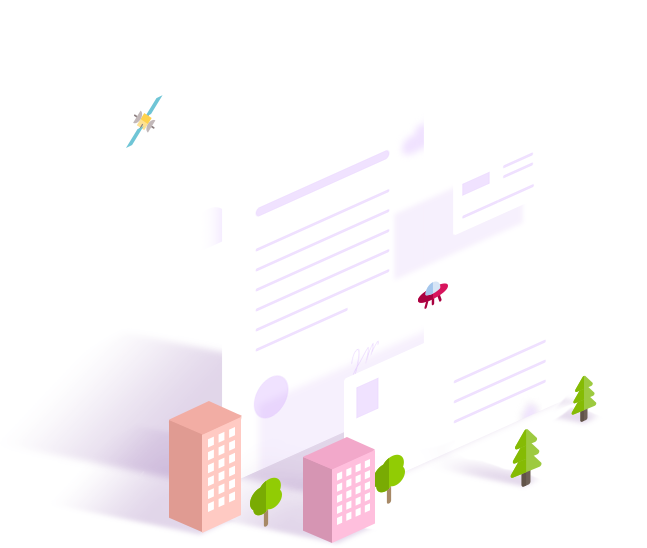
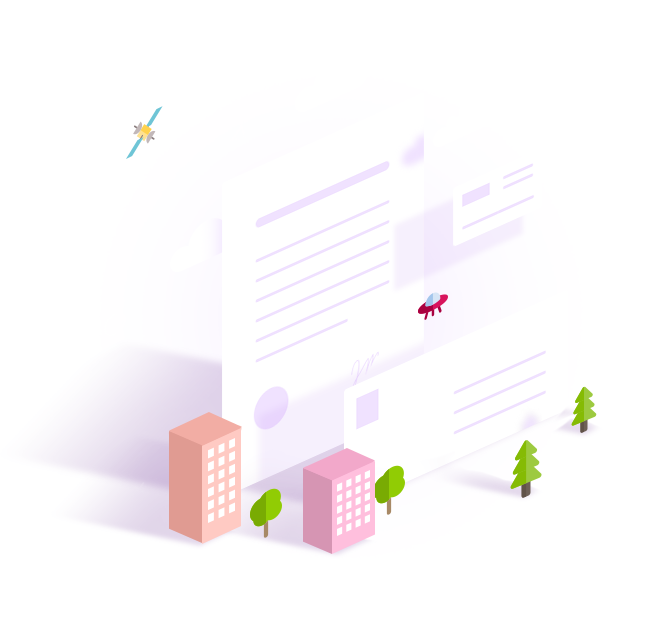
Add files via upload

diff --git a/css/header.css b/css/header.css
@@ -6,7 +6,7 @@
     background-image: url("../img/header/bg.png");
     background-size: cover;
     min-height: 70vh;
-    padding: 3% 0 2% 0;
+    padding: 3% 1% 2% 1%;
 }
 
 .header__menu {
@@ -67,8 +67,8 @@
     align-items: center;
 }
 .banner__img {
-    width: 60%;
-    height: auto;
+    max-width:80%;
+    height:auto;
     margin: 0 5% 0 -5%;
 }
 .banner__text {
@@ -79,7 +79,7 @@
 }
 .banner__text__up {
     font-family: 'Muller ExtraBold';
-    font-size: 55px;
+    font-size: 60px;
     color: white;
 }
 .banner__text__down {
@@ -94,11 +94,12 @@
 .banner__button-block {
     display: flex;
     flex-direction: row;
+    flex-wrap: wrap;
     justify-content: space-between;
 }
 .banner__button {
-    padding: 3% 0;
-    width: 65%;
+    padding: 15px 10px;
+    width: 260px;
     border-radius: 50px;
     background-color: #fb0275;
     font-family: 'Open Sans';
@@ -113,6 +114,7 @@
     font-size: 16px;
     color: white;
     opacity: 0.5;
+    text-align: left;
 }
 
 .header__down-icon {
@@ -121,3 +123,5 @@
     margin: 10% 0 0 48%;
     cursor: pointer;
 }
+
+.media-menu {display:none;}

diff --git a/css/form.css b/css/form.css
@@ -3,7 +3,7 @@
     top:0;
     left:0;
     width: 100%;
-    height: 100vh;
+    height: 100%;
     background-color:  rgba(0,0,0,0.4);
     display:none;
 }
@@ -25,14 +25,14 @@
 .block__up-text {
     font-family: 'Open Sans';
     font-style: italic;
-    font-size: 13px;
+    font-size: 1.3em;
     color: #fff;
     margin: 3% 0 4% 0;
 }
 .block__down-text {
     font-family: 'Open Sans';
     font-weight: 600;
-    font-size: 17px;
+    font-size: 1.7em;
     color: #fff;
     margin: 0 0 6% 0;
 }
@@ -44,14 +44,14 @@
     color: white;
     font-family: 'Open Sans';
     font-weight: 700;
-    font-size: 14px;
+    font-size: 1.4em;
 }
 .block__input::placeholder {
     color:white;
     opacity: 0.7;
     font-family: 'Open Sans';
     font-weight: 700;
-    font-size: 14px;
+    font-size: 1.4em;
 }
 .block__button {
     background-color: #fb0275;
@@ -61,7 +61,7 @@
     border-radius: 50px;
     font-family: 'Open Sans';
     font-weight: 700;
-    font-size: 16px;
+    font-size: 1.6em;
     color: white;
     cursor: pointer;
 }

diff --git a/index.html b/index.html
@@ -41,7 +41,7 @@
                 <button class="js-button-menu-tab"><i class="material-icons media-header__button">menu</i></button>      
             </div>
             <div class="header__banner">
-                <img src="img/header/icon.png" alt="" class="banner__img">
+                <img src="img/header/icon.png" class="banner__img">
                 <div class="banner__text">
                     <h1 class="banner__text__up">РАЗМЕР<br> НЕ ИМЕЕТ<br> ЗНАЧЕНИЯ!</h1>
                     <span class="banner__text__down">Оперативная полиграфия и широкоформатная печать любого размера </span>

diff --git a/media/750/media-header-750.css b/media/750/media-header-750.css
@@ -44,19 +44,15 @@
         font-size: 1.6vw;
         margin: 15% 0;
     }
-    .media-menu__button {
-       display: block;
-       border: 2px solid#fb0275;
-       color: #fb0275;
-       padding: 3% 6%;
-       width: 100%;
-       font-size: 1.3vw;
+    
+    .banner__img {
+        width: 55%;
     }
     .banner__text__up {
-        font-size: 6vw;
+        font-size: 35px;
     }
     .banner__text__down {
-        font-size: 2.5vw;
+        font-size: 20px;
     }
     .banner__button-block {
         flex-direction: column;

diff --git a/media/320/media-header-320.css b/media/320/media-header-320.css
@@ -1,0 +1,13 @@
+@media screen and (max-width: 470px) {
+
+    .header__banner, .banner__button-block  {
+        flex-direction: column;
+        align-items: center;
+    }
+
+    .banner__text__down, .banner__text-add { text-align:center; }
+
+    .form__block {margin:none;}
+
+
+}
